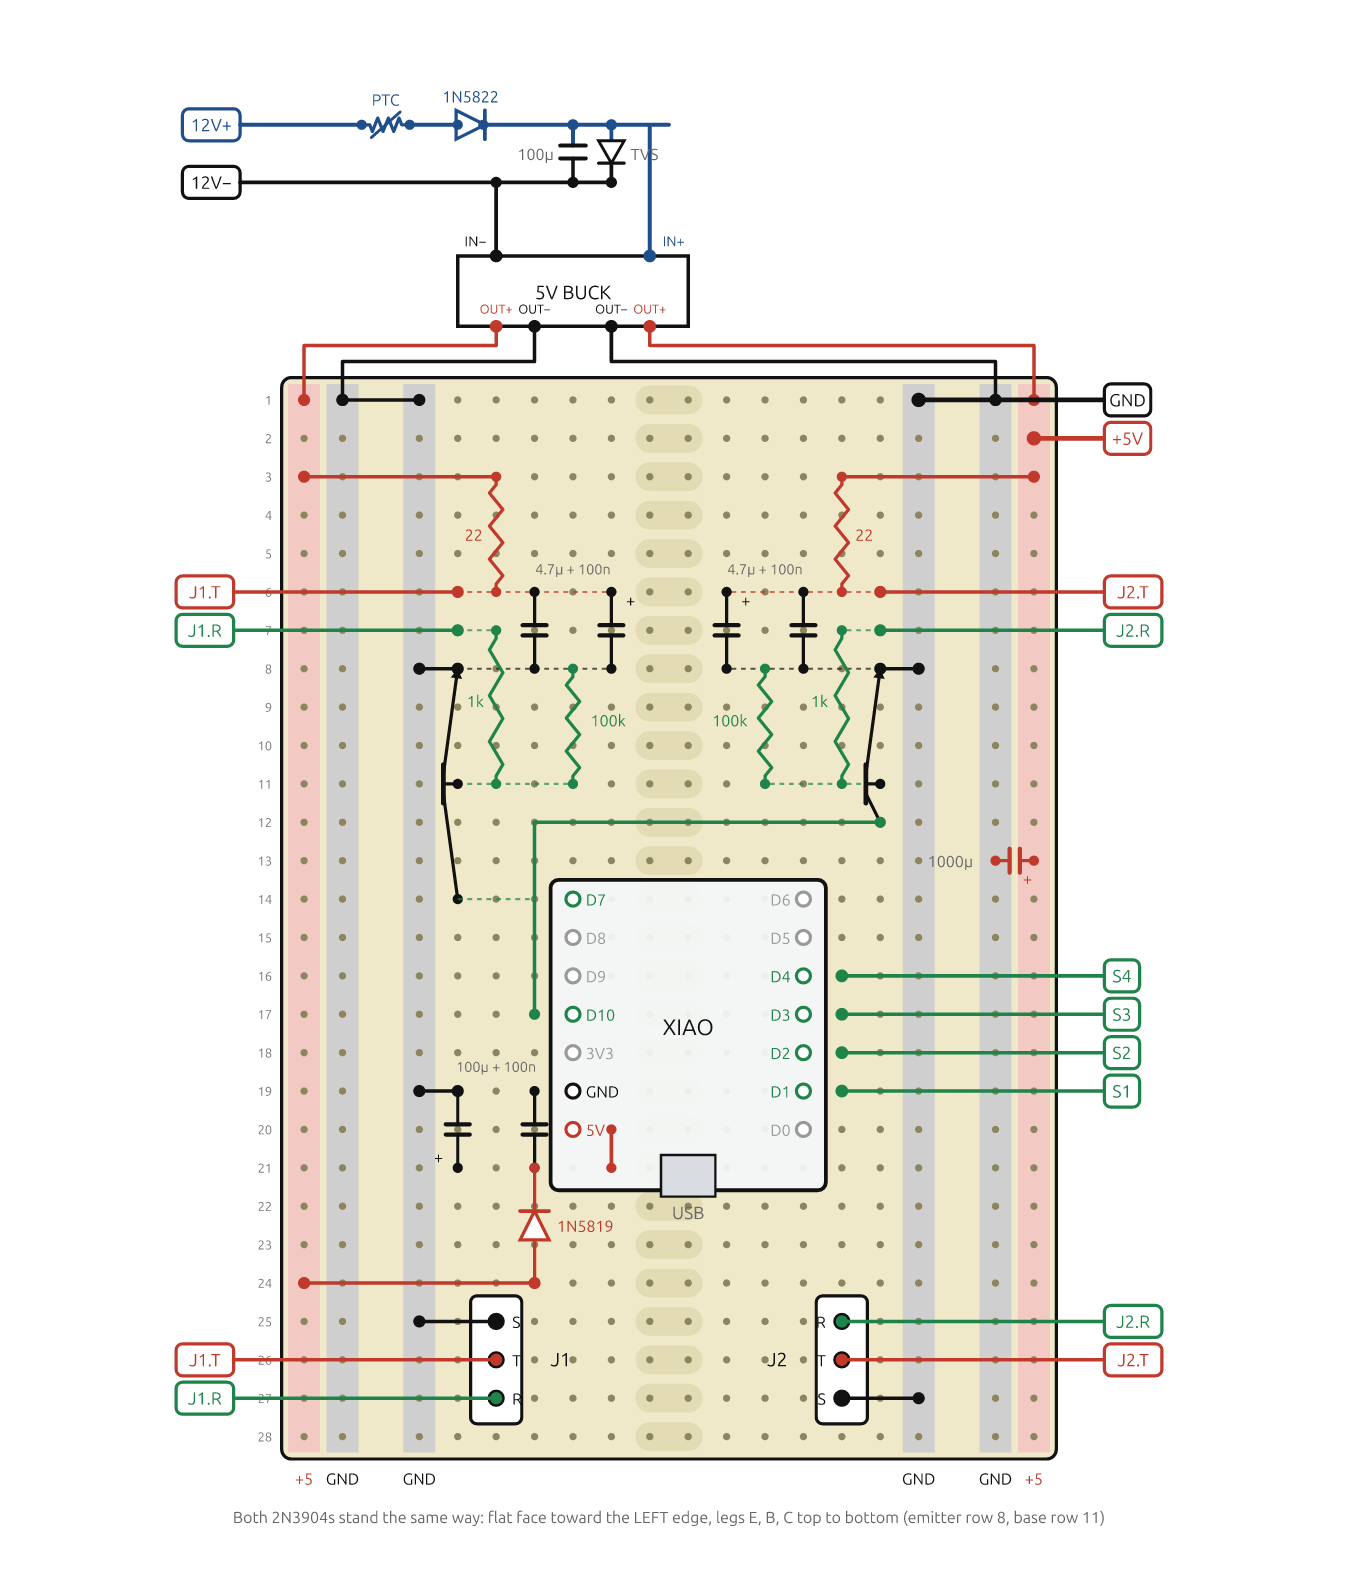
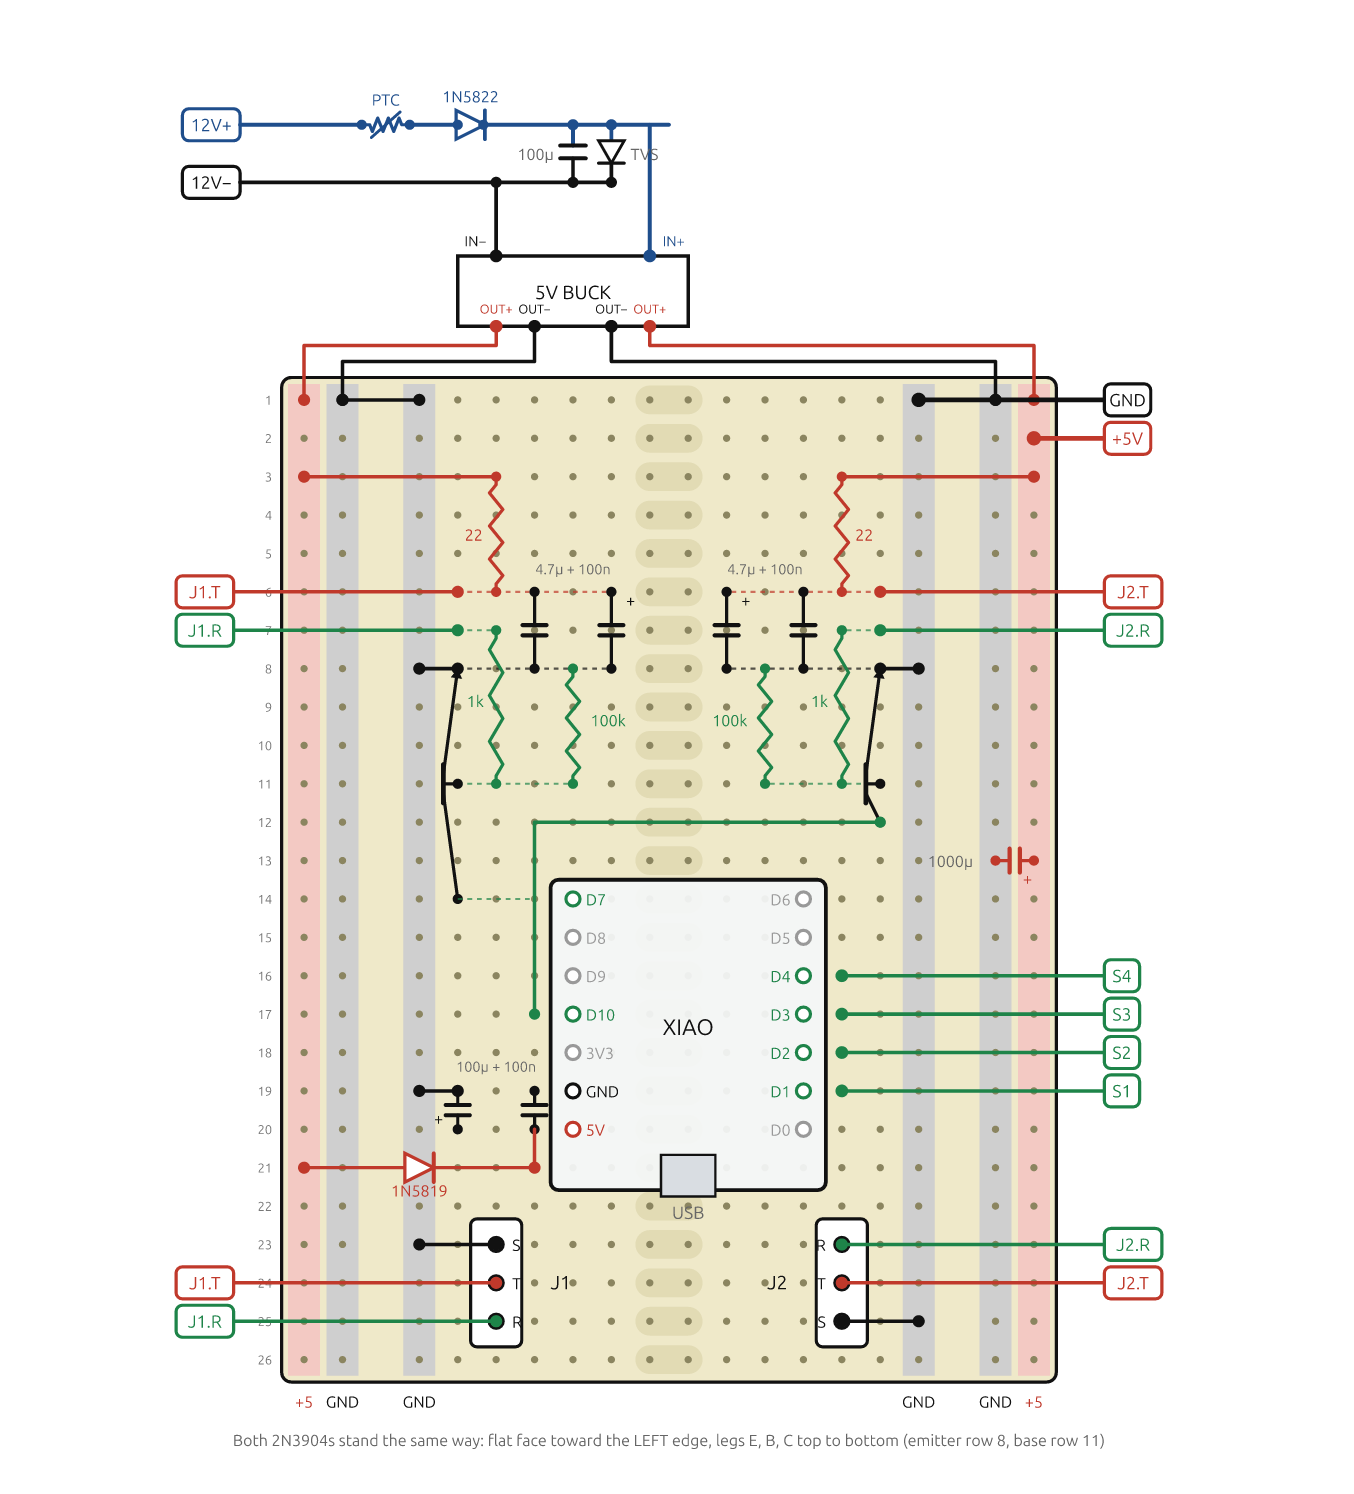
docs: 1N5819 lies along row 21, caps on rows 19-20, stray 5V link removed, connectors on rows 23-25

Changed region(s): [[0.1241, 0.1539, 0.8685, 0.9853], [0.1241, 0.0616, 0.4963, 0.1539], [0.7134, 0.5234, 0.7755, 0.585]]

diff --git a/docs/08-servo-board.md b/docs/08-servo-board.md
@@ -182,7 +182,7 @@ connectors are on the main board, so `J1.T` and `J1.R` are just wires between th
 - **Every row is split into three islands: 5 holes | 2 holes | 5 holes.** The 2-hole island in the middle is its own
   net (drawn as a lighter pad in the layout). The XIAO's pins land one in each 5-hole island, so its body sits over the
   middle one.
-- About 30 rows along the strips. The layout needs **28**, so the board can be cut after row 28 (a couple of rows off the end)
+- About 30 rows along the strips. The layout needs **26**, so the board can be cut after row 26 (a couple of rows off the end)
   and the offcut used for the connector board. Cut through a gap in the copper, not along a strip.
 
 **How I used the strips (both sides, mirrored):** A = **+5 V**; B and C = **GND**, tied together with a short wire at
@@ -199,7 +199,7 @@ short. Rotate the whole board 180° in the box if the USB end should face elsewh
 **XIAO position:** the XIAO is 7 columns wide. Its left pins are in column 4 of the left island and its right pins in column 10 (columns
 1–5 left, 6–7 middle, 8–12 right), rows 14–20. That leaves **three free holes on the left** (columns 1–3, where the
 power parts are) and **two on the right** (columns 11–12). The sensor blocks sit above it in rows 3–14. The two
-sensor connectors (3-pin, on the board) are below it in rows 25–27.
+sensor connectors (3-pin, on the board) are below it in rows 23–25.
 
 | Rows | Left pin | Right pin |
 |---|---|---|
@@ -257,26 +257,25 @@ in a row, not wires. Column k4 is left empty between the two filter caps so two 
 | Collector, left block | no wire: the collector leg sits in row 14, the same row as **D7** | |
 | Collector wire, right block (insulated) | row 12, col 12, left along row 12 to left col 3 | left row 17, col 3 (beside **D10**) |
 
-**Sensor connectors, on the board.** Two 3-pin connectors in rows 25–27, wired like the SFX Box's sensor board. The
+**Sensor connectors, on the board.** Two 3-pin connectors in rows 23–25, wired like the SFX Box's sensor board. The
 left one (`J1`, sensor 1) has its pins in column 2, top to bottom **Sleeve, Tip, Ring**. The right one (`J2`, sensor 2)
 has its pins in column 11, top to bottom **Ring, Tip, Sleeve**.
 
 | Pin | Hole J1 (col 2) | Hole J2 (col 11) | Goes to |
 |---|---|---|---|
-| Sleeve | row 25 | row 27 | GND: short wire to C (left C / right C) on the same row |
-| Tip | row 26 | row 26 | tag `J1.T` / `J2.T` (wire to row 6, k1 of that block) |
-| Ring | row 27 | row 25 | tag `J1.R` / `J2.R` (wire to row 7, k1 of that block) |
+| Sleeve | row 23 | row 25 | GND: short wire to C (left C / right C) on the same row |
+| Tip | row 24 | row 24 | tag `J1.T` / `J2.T` (wire to row 6, k1 of that block) |
+| Ring | row 25 | row 23 | tag `J1.R` / `J2.R` (wire to row 7, k1 of that block) |
 
 **XIAO power and servos**
 
 | Part | From | To |
 |---|---|---|
 | GND jumper (XIAO GND pin is row 19) | left row 19, col 1 | left C, row 19 |
-| 100 µF (+ to row 21), a barrel, shares the row 19 jumper hole | left row 21, col 1 | left row 19, col 1 |
-| 100 nF (+ to row 21 if it is an electrolytic) | left row 21, col 3 | left row 19, col 3 |
-| 5 V link (the 5 V pin is row 20, the caps and diode are on row 21) | left row 20, col 5 | left row 21, col 5 |
-| 1N5819 (band to the XIAO; its cathode shares the 100 nF's row 21 hole) | cathode left row 21, col 3 | anode left row 24, col 3 |
-| Anode jumper | left row 24, col 3 | left A, row 24 |
+| 100 µF (+ to row 20), a barrel, shares the row 19 jumper hole | left row 20, col 1 | left row 19, col 1 |
+| 100 nF (+ to row 20 if it is an electrolytic) | left row 20, col 3 | left row 19, col 3 |
+| 1N5819, lying along row 21 (band to the XIAO) | anode left A, row 21 | cathode left row 21, col 3 |
+| 5 V hop (the 5 V pin and the cap + legs are row 20, the diode cathode is row 21) | left row 21, col 3 | left row 20, col 3 |
 | Tags `S1`, `S2`, `S3`, `S4` | right rows 19 / 18 / 17 / 16, col 11 | |
 
 **Wires between the two boards (6 plus the 12 V pair).** `S1`–`S4`, `+5V` and `GND` (20 AWG, they carry every servo's current). `12V+` and `12V−` go from the jack to the 12 V chain
